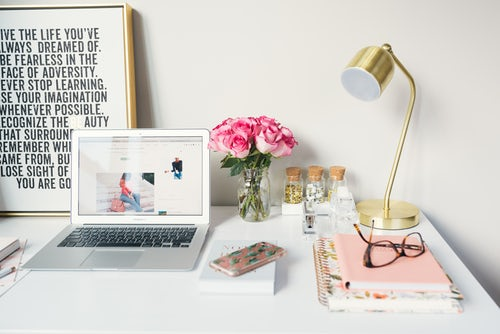
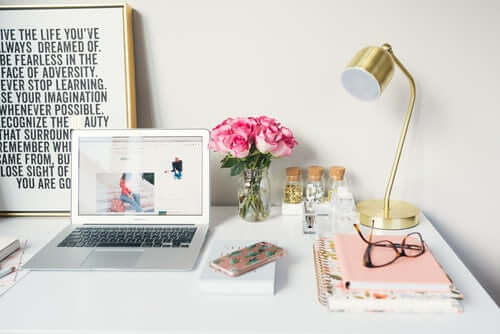
compressed images and removed http from url

diff --git a/index.html b/index.html
@@ -4,17 +4,17 @@
 <meta http-equiv="Content-Type" content="text/html; charset=utf-8" />
 <title>Untitled Document</title>
 <!-- Latest compiled and minified CSS -->
-<link rel="stylesheet" href="https://maxcdn.bootstrapcdn.com/bootstrap/3.3.7/css/bootstrap.min.css" integrity="sha384-BVYiiSIFeK1dGmJRAkycuHAHRg32OmUcww7on3RYdg4Va+PmSTsz/K68vbdEjh4u" crossorigin="anonymous">
+<link rel="stylesheet" href="//maxcdn.bootstrapcdn.com/bootstrap/3.3.7/css/bootstrap.min.css" integrity="sha384-BVYiiSIFeK1dGmJRAkycuHAHRg32OmUcww7on3RYdg4Va+PmSTsz/K68vbdEjh4u" crossorigin="anonymous">
 <!-- Optional theme -->
-<link rel="stylesheet" href="https://maxcdn.bootstrapcdn.com/bootstrap/3.3.7/css/bootstrap-theme.min.css" integrity="sha384-rHyoN1iRsVXV4nD0JutlnGaslCJuC7uwjduW9SVrLvRYooPp2bWYgmgJQIXwl/Sp" crossorigin="anonymous">
+<link rel="stylesheet" href="//maxcdn.bootstrapcdn.com/bootstrap/3.3.7/css/bootstrap-theme.min.css" integrity="sha384-rHyoN1iRsVXV4nD0JutlnGaslCJuC7uwjduW9SVrLvRYooPp2bWYgmgJQIXwl/Sp" crossorigin="anonymous">
 <!-- Add the slick-theme.css if you want default styling -->
-<link rel="stylesheet" type="text/css" href="http://cdn.jsdelivr.net/gh/kenwheeler/slick@1.8.1/slick/slick.css"/>
+<link rel="stylesheet" type="text/css" href="//cdn.jsdelivr.net/gh/kenwheeler/slick@1.8.1/slick/slick.css"/>
 <!-- Add the slick-theme.css if you want default styling -->
-<link rel="stylesheet" type="text/css" href="http://cdn.jsdelivr.net/gh/kenwheeler/slick@1.8.1/slick/slick-theme.css"/>
-<script type="text/javascript" src="https://code.jquery.com/jquery-3.3.1.min.js"></script>
-<script defer src="https://use.fontawesome.com/releases/v5.0.8/js/all.js"></script>
+<link rel="stylesheet" type="text/css" href="//cdn.jsdelivr.net/gh/kenwheeler/slick@1.8.1/slick/slick-theme.css"/>
+<script type="text/javascript" src="//code.jquery.com/jquery-3.3.1.min.js"></script>
+<script defer src="//use.fontawesome.com/releases/v5.0.8/js/all.js"></script>
 <style type="text/css">
-	@import url('https://fonts.googleapis.com/css?family=Open+Sans:400,600');
+	@import url('//fonts.googleapis.com/css?family=Open+Sans:400,600');
 	body{font-family:'Open Sans', sans-serif;}
     ul, li{list-style: none;}
 	.mb40{margin-bottom: 40px;}
